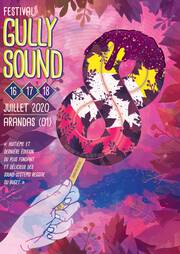
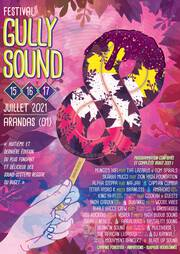
change 8th edition poster

diff --git a/src/pages/Programmation.vue b/src/pages/Programmation.vue
@@ -72,6 +72,8 @@
     <p>💋 Prenez soin de vous !</p>
     <p>💋 Bisous, câlins et autres interdits</p>
 
+    <img :src="poster" alt="poster">
+
     <!-- <h1>Programmation a venir...</h1>
     <p class="justify">
     D'ici quelques temps, tu trouveras ici la programmation pour les soirées du jeudi 16, vendredi
@@ -87,12 +89,14 @@
   import DetailLayout from '../layouts/Detail.vue'
   import ArtistCard from '../components/ArtistCard.vue'
   import PROG_FILE from '../img/programmation.jpg'
+  import POSTER from '../img/posters/900/8.jpg'
   // import ARTISTS from '../img/artists/index.yml'
 
   export default {
     data() {
       return {
         progFile: PROG_FILE,
+        poster: POSTER
         // artists: ARTISTS
       }
     },
